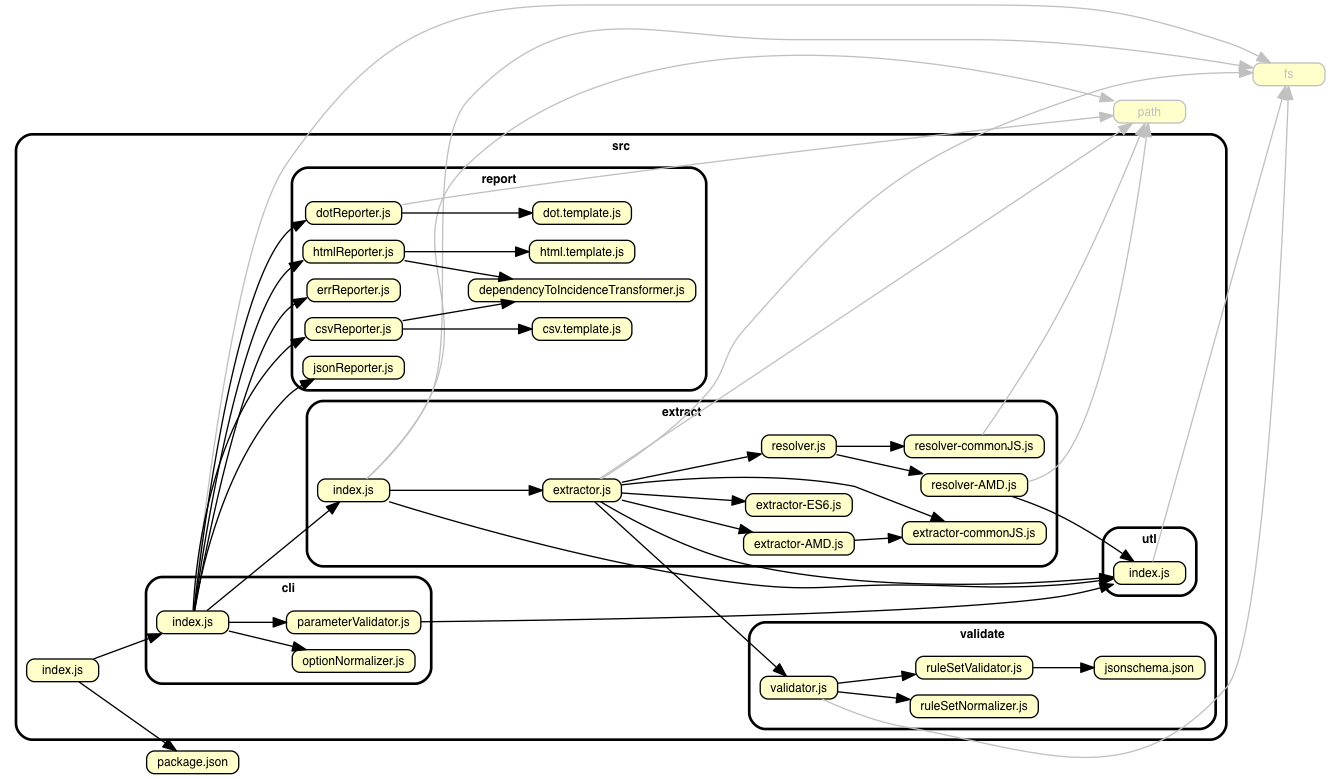
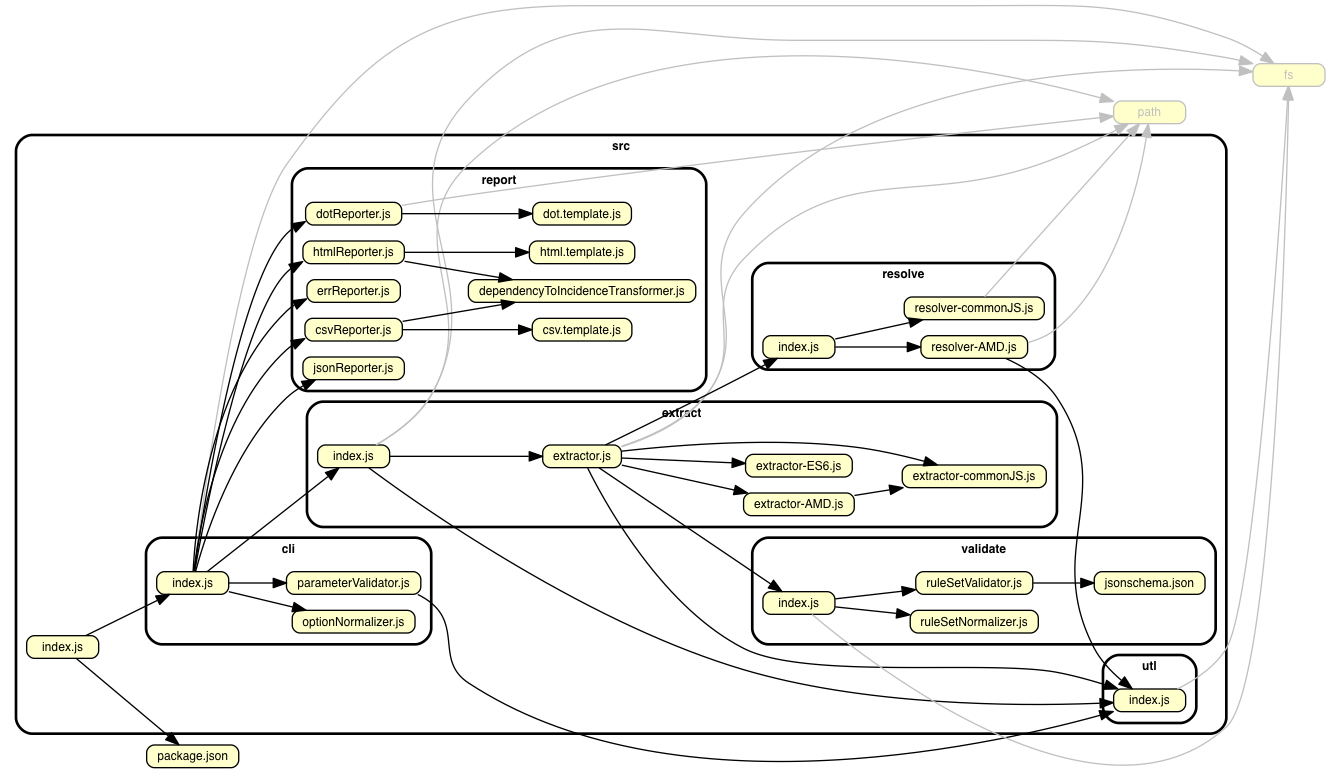
:wrench: moves the resolver modules to a separate folder

diff --git a/src/extract/extractor.js b/src/extract/extractor.js
@@ -6,7 +6,7 @@ const typescript                  = require('typescript');
 const fs                          = require('fs');
 const _                           = require('lodash');
 const path                        = require('path');
-const resolver                    = require('./resolver');
+const resolver                    = require('../resolve');
 const validator                   = require('../validate');
 const utl                         = require('../utl');
 const extractES6Dependencies      = require('./extractor-ES6');
